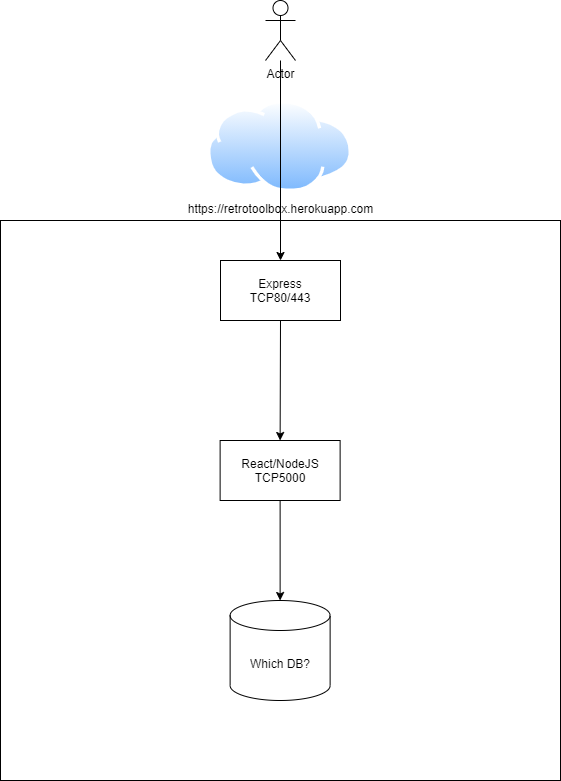
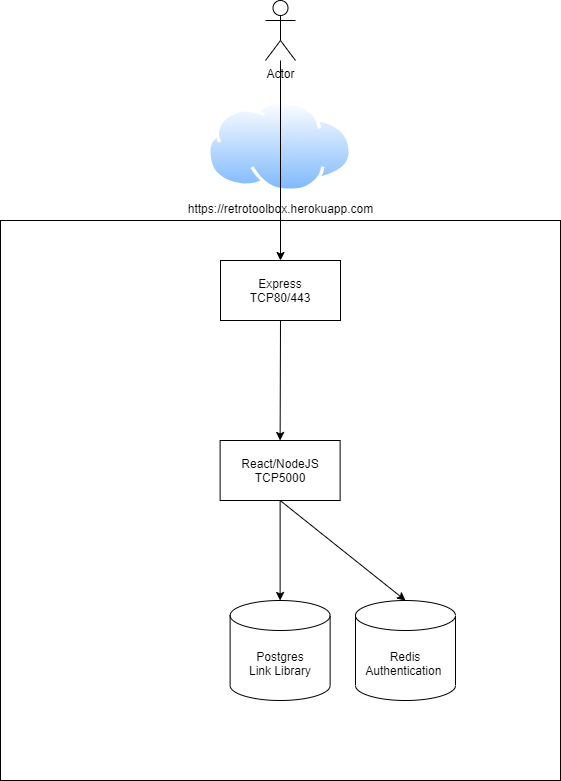
architecture drawing update w/db

diff --git a/Research/Architecture.md b/Research/Architecture.md
@@ -5,10 +5,8 @@ The job of the express frontend is to act as a presentation mechanism and to han
 
 The middleware node/react stack function is to provide application logic, session management (maybe) and access database components.  It will also handle controlling access to admin pages.
 
-The backend or database layer will have two functions.  The first is to host login information for authentication of admin personnel.  The second purpose of the database will be to host links to the local images used to be placed on the dice.
+The backend or database layer will have two functions.  The first is a Redis database to host login information for authentication of admin personnel.  The second is a Postgres database to host links to the local images used to be placed on the dice.
 
 ![](retrotoolbox_architecture.png)
 
-[Link to draw.io file][1]
-
-  [1]: ../resources/Architecture.md
+[DrawIO File](resources/retrotoolbox_architecture.drawio)
